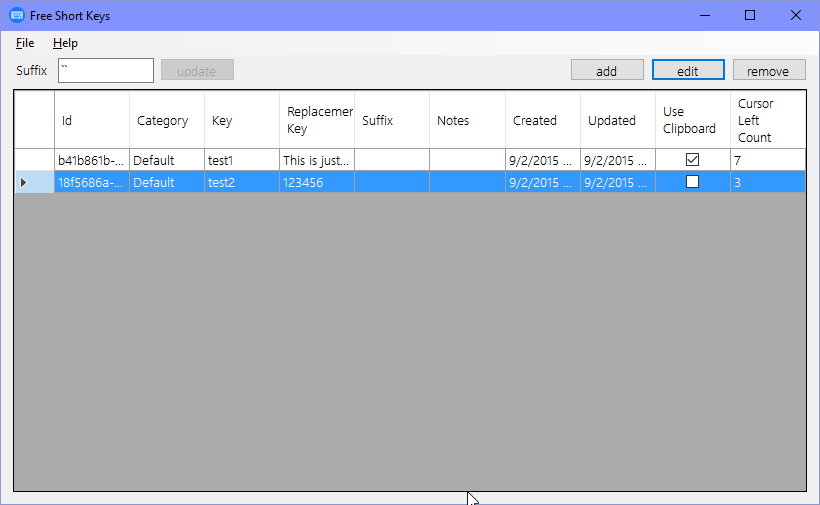
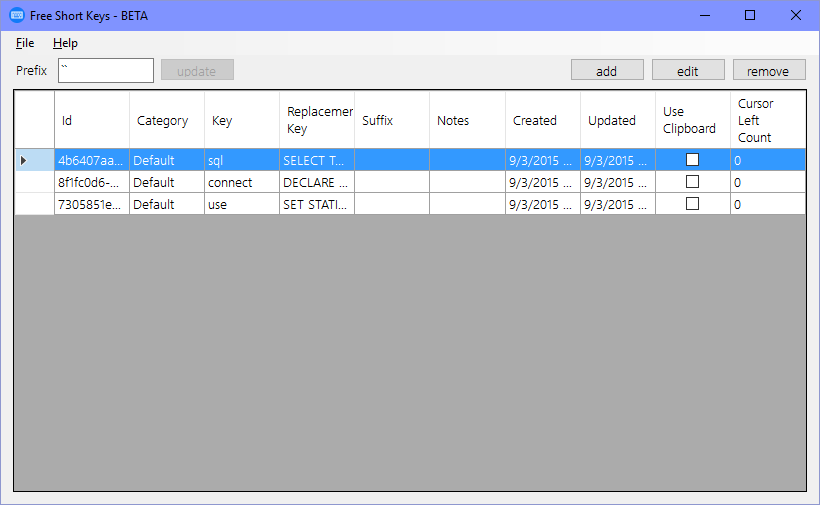
fixes and doc update

diff --git a/Free Short Keys/frmMain.cs b/Free Short Keys/frmMain.cs
@@ -143,6 +143,10 @@ namespace Free_Short_Keys
                 e.Cancel = true;
                 ShowHideApp(true);
             }
+            else
+            {
+                notifyIcon1.Visible = false;
+            }
         }
 
         private void notifyIcon1_DoubleClick(object sender, EventArgs e)

diff --git a/Free Short Keys/ShortKey.cs b/Free Short Keys/ShortKey.cs
@@ -29,7 +29,7 @@ namespace Free_Short_Keys
         internal void Validate()
         {
             Key = Key.Trim();
-            if (Key.Length <= 2)
+            if (Key.Length <= 1)
             {
                 throw new Exception("Key must be more than a 1 character long.");
             }

diff --git a/README.md b/README.md
@@ -2,6 +2,8 @@
 
 A open free short keys application
 
+*Please note that because this is still in BETA there are some rough edges around the keys used for the prefix and suffix, we are working on these and will publish an update when done*
+
 ## Install
 
 Head over to [https://clickonce.binary-stuff.com/](https://clickonce.binary-stuff.com/) and download the latest click once deployment of this application.
@@ -17,7 +19,7 @@ The opening window is very basic and just lists all your short keys
 
 ![opening window](images/001.png)
 
-- You can change the default suffix for your short key binds
+- You can change the prefix for your short key binds
 - You can also then Edit or Remove a short key by selecting one and clicking on the **edit** or **remove** buttons.
 - Lastly you can add new short keys by clicking on the add button.
 
@@ -32,7 +34,7 @@ Next we'll take a look at the add/edit a short key window
 - You are able to set what the keys are that trigger your short key
 	- At the moment this is limited to numbers and letters
 	- Your key needs to be 2 or more characters long
-- If you don't want to use the default suffix that you have globally set you can override it here for a specific short key 
+- You can optionally add a suffix to the end of your short key 
 - You get the option to have your replacement key pasted in with the clip board or typed out
 	- If you want to use Special Keys you will need to leave this unchecked
 - You then get the replacement key that you would like to use for the current short key
